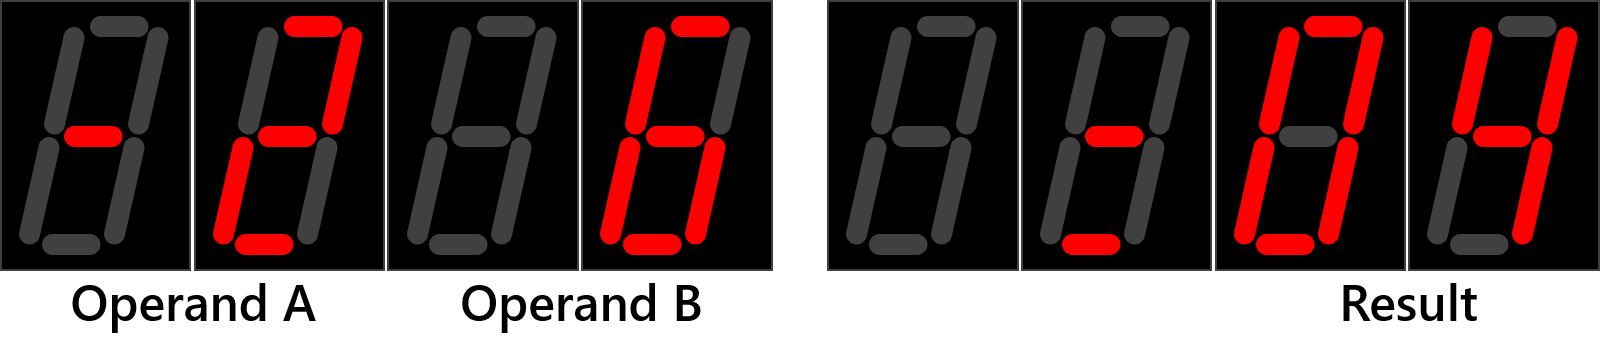
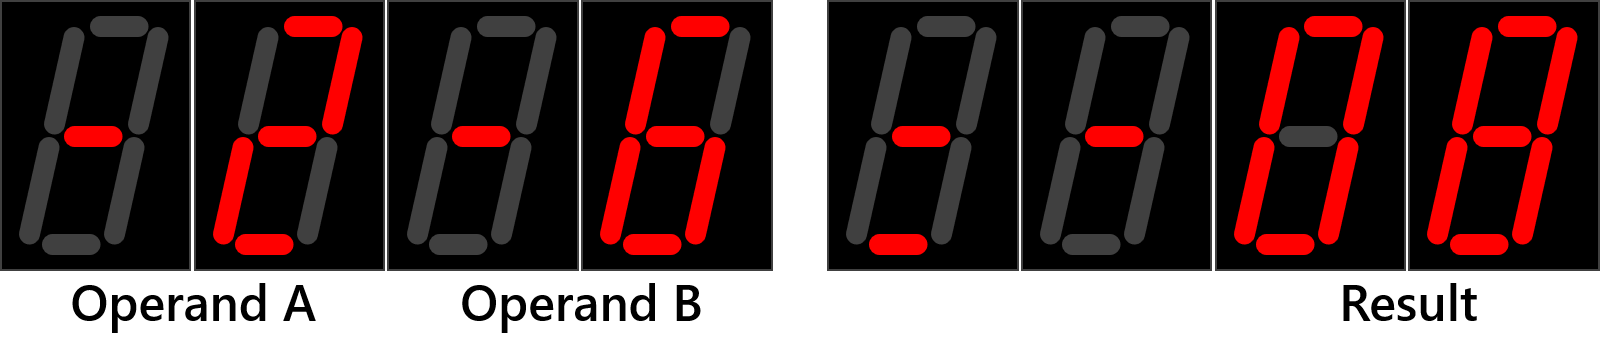
corrected fig01

diff --git a/LSD06/README.md b/LSD06/README.md
@@ -40,7 +40,7 @@ OS value (binary)  | Arithmetic operation
 
 In any other case, no operation in carried out and output is zero. Also, consider that eventhough the corresponding button is pressed and released, the selection should be saved and performed.
 
-  * The 7-segment display is used to display both operands and result in unsigned representation. Negative numbers are accompanied by a minus sign (-) in a 7-segment digit to their left. See the figure below:
+  * The 7-segment display is used to display both operands and result in unsigned representation. Negative numbers are accompanied by a minus sign (-) in the immediate digit to their left. See the figure below as a reference (```-2 + -6 = -8```):
 
 ![7-segment display setup](img/fig01.png)
 
